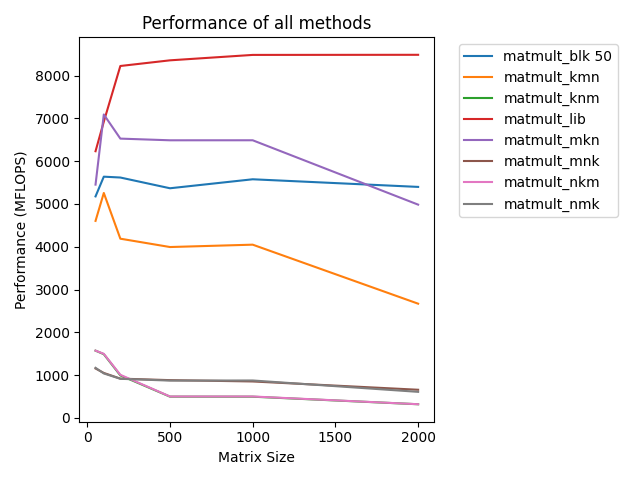
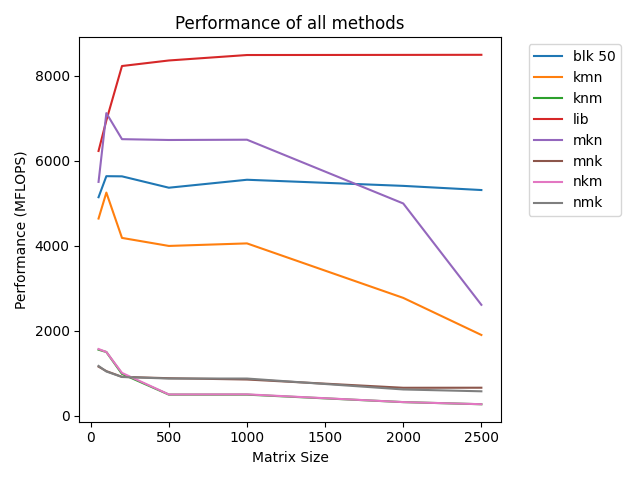
all

diff --git a/assignment1/plots.py b/assignment1/plots.py
@@ -9,7 +9,7 @@ with open('assignment1/all_methods_nocompiler.txt') as f:
         linesplit = line.split()
         memorysizes.append(float(linesplit[0]))
         performance.append(float(linesplit[1]))
-        methods.append(" ".join(linesplit[3:]))
+        methods.append(" ".join(linesplit[3:]).split("matmult_")[1])
 
 methods = np.array(methods)
 memorysizes = np.array(memorysizes)
@@ -52,7 +52,7 @@ with open('assignment1/all_methods_O3.txt') as f:
         linesplit = line.split()
         memorysizes.append(float(linesplit[0]))
         performance.append(float(linesplit[1]))
-        methods.append(" ".join(linesplit[3:]))
+        methods.append(" ".join(linesplit[3:]).split("matmult_")[1])
 
 methods = np.array(methods)
 memorysizes = np.array(memorysizes)
@@ -79,7 +79,7 @@ with open('assignment1/all_methods_O3_funroll.txt') as f:
         linesplit = line.split()
         memorysizes.append(float(linesplit[0]))
         performance.append(float(linesplit[1]))
-        methods.append(" ".join(linesplit[3:]))
+        methods.append(" ".join(linesplit[3:]).split("matmult_")[1])
 
 methods = np.array(methods)
 memorysizes = np.array(memorysizes)
@@ -106,7 +106,7 @@ with open('assignment1/all_methods_O3_funroll_flto.txt') as f:
         linesplit = line.split()
         memorysizes.append(float(linesplit[0]))
         performance.append(float(linesplit[1]))
-        methods.append(" ".join(linesplit[3:]))
+        methods.append(" ".join(linesplit[3:]).split("matmult_")[1])
 
 methods = np.array(methods)
 memorysizes = np.array(memorysizes)
@@ -133,7 +133,7 @@ with open('assignment1/all_methods_O3_funroll_marchnative.txt') as f:
         linesplit = line.split()
         memorysizes.append(float(linesplit[0]))
         performance.append(float(linesplit[1]))
-        methods.append(" ".join(linesplit[3:]))
+        methods.append(" ".join(linesplit[3:]).split("matmult_")[1])
 
 methods = np.array(methods)
 memorysizes = np.array(memorysizes)
@@ -160,7 +160,7 @@ with open('assignment1/all_methods_O3_funroll_marchnative_sse.txt') as f:
         linesplit = line.split()
         memorysizes.append(float(linesplit[0]))
         performance.append(float(linesplit[1]))
-        methods.append(" ".join(linesplit[3:]))
+        methods.append(" ".join(linesplit[3:]).split("matmult_")[1])
 
 methods = np.array(methods)
 memorysizes = np.array(memorysizes)
@@ -187,12 +187,12 @@ with open('assignment1/all_methods.txt') as f:
         linesplit = line.split()
         memorysizes.append(float(linesplit[0]))
         performance.append(float(linesplit[1]))
-        methods.append(" ".join(linesplit[3:]))
+        methods.append(" ".join(linesplit[3:]).split("matmult_")[1])
 
 methods = np.array(methods)
 memorysizes = np.array(memorysizes)
 performance = np.array(performance)
-matrix_sizes = np.array([50, 100, 200, 500, 1000, 2000])
+matrix_sizes = np.array([50, 100, 200, 500, 1000, 2000, 2500])
 
 plt.figure()
 for method in np.unique(methods):
@@ -214,6 +214,17 @@ plt.legend(bbox_to_anchor=(1.05, 1), loc=2)
 plt.title('Performance of all methods')
 plt.tight_layout()
 plt.savefig('assignment1/performance_all.png')
+
+plt.figure()
+for method in np.unique(methods):
+    if method in ["lib", "blk 50", "mkn"]:
+        plt.plot(matrix_sizes, performance[methods == method], label=method)
+plt.xlabel('Matrix Size')
+plt.ylabel('Performance (MFLOPS)')
+plt.legend(bbox_to_anchor=(1.05, 1), loc=2)
+plt.title('Performance of all methods')
+plt.tight_layout()
+plt.savefig('assignment1/performance_blk.png')
 
 with open("assignment1/blocksize.txt") as f:
     blocksize = []
